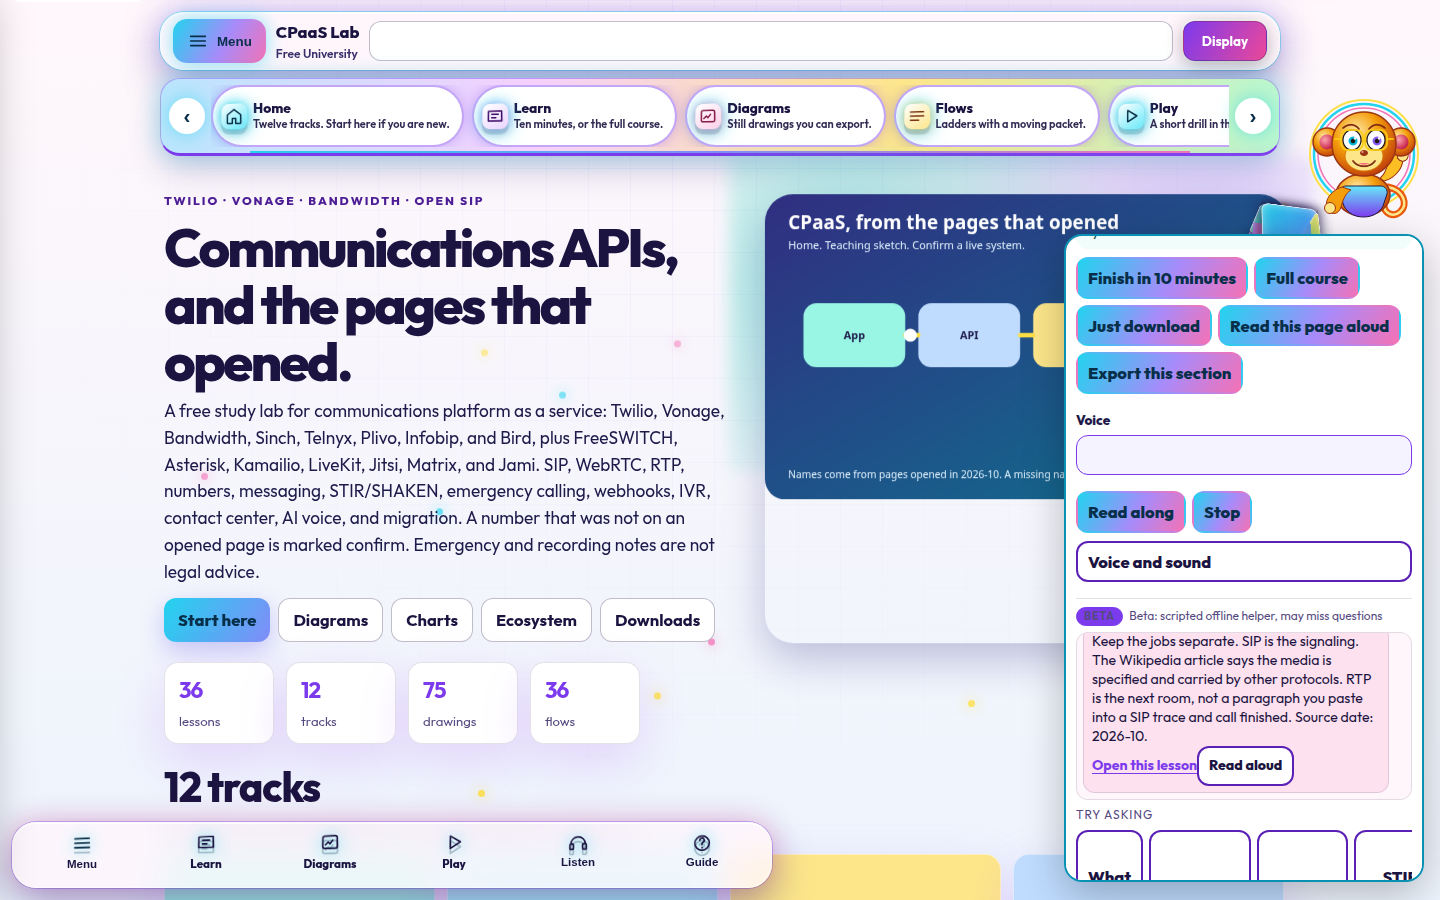
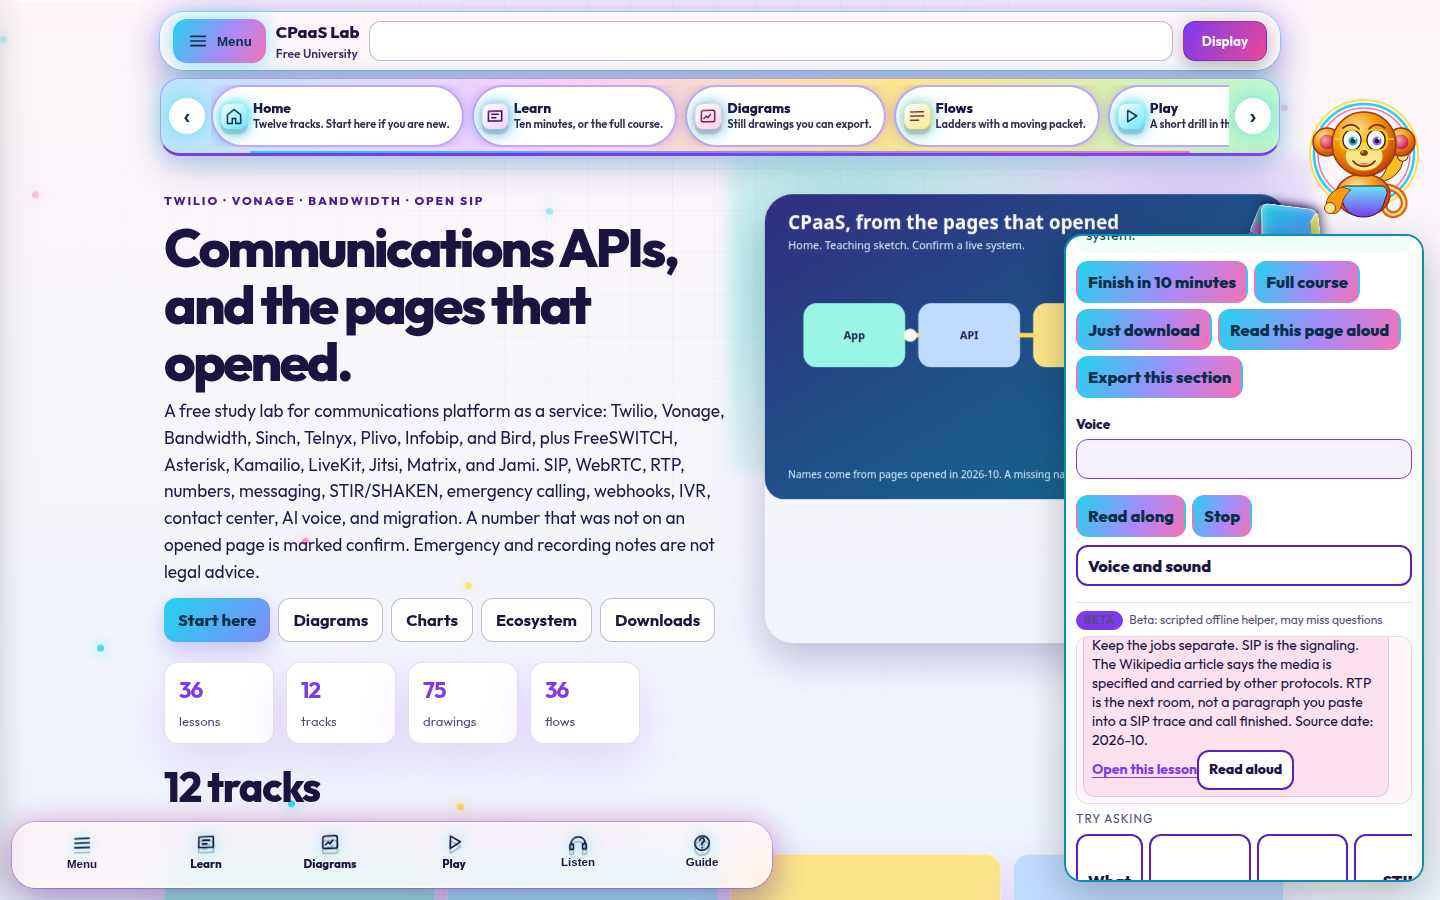
Let the phone chat field use the sheet width.
The input label was sitting in the form row, so the field shrank to a sliver. It is now visually hidden, and the field keeps at least 180px with Send still on screen.

Changed region(s): [[0.75, 0.5289, 0.9688, 0.9333], [0.75, 0.2489, 0.9688, 0.4978], [0.75, 0.9644, 0.7812, 0.9956]]

diff --git a/shared/pybot-chat/chat.css b/shared/pybot-chat/chat.css
@@ -45,10 +45,23 @@
 .py-msg-code { margin: 6px 0 0; padding: 6px; overflow: auto; border-radius: 8px; background: var(--code-bg, var(--bg)); font-size: 0.75rem; }
 .py-chat-try { margin: 0; font-size: 0.75rem; text-transform: uppercase; letter-spacing: 0.08em; color: var(--muted); }
 .py-chat-examples, .py-chat-chips { display: flex; gap: 6px; overflow-x: auto; }
-.py-chat-form { display: flex; gap: 6px; align-items: center; }
+.py-chat-form { display: flex; gap: 6px; align-items: center; width: 100%; box-sizing: border-box; }
+.py-chat { width: 100%; box-sizing: border-box; }
+.visually-hidden {
+  position: absolute;
+  width: 1px;
+  height: 1px;
+  padding: 0;
+  margin: -1px;
+  overflow: hidden;
+  clip: rect(0, 0, 0, 0);
+  white-space: nowrap;
+  border: 0;
+}
 .py-chat-form input {
-  flex: 1;
-  min-width: 0;
+  flex: 1 1 auto;
+  min-width: 180px;
+  width: 100%;
   min-height: 44px;
   padding: 6px 10px;
   border-radius: 10px;
@@ -69,7 +82,8 @@
   font-weight: 700;
   cursor: pointer;
 }
-.py-chat-form button[type="submit"] { background: var(--accent); color: var(--btn-ink, #042f2e); border-color: var(--accent); }
+.py-chat-form button[type="submit"] { background: var(--accent); color: var(--btn-ink, #042f2e); border-color: var(--accent); flex: 0 0 auto; }
+.py-chat-form .py-mic { flex: 0 0 auto; }
 .uc-lab .bot-panel { overflow: auto; max-height: min(72dvh, 680px); }
 .py-chat-form button:focus-visible, .py-mic:focus-visible, #py-chat-input:focus-visible, .py-read:focus-visible {
   outline: 2px solid var(--accent);

diff --git a/tests/lab.spec.js b/tests/lab.spec.js
@@ -42,7 +42,11 @@ test.describe("phone", () => {
     await expect(page.locator("main h1")).toBeVisible();
     await shot(page, "home-390.png");
     await page.locator("[data-open-guide]").click();
-    await expect(page.locator("#py-chat-input")).toBeVisible();
+    const input = page.locator("#py-chat-input");
+    const send = page.locator(".py-chat-form button[type=submit]");
+    await expect(input).toBeVisible();
+    await expect(send).toBeVisible();
+    expect((await input.boundingBox()).width).toBeGreaterThanOrEqual(180);
     await shot(page, "bot-390.png");
     await page.goto("/rooms/sip-jobs.html");
     await expect(page.locator("main h1")).toContainText(/SIP/);
@@ -95,6 +99,7 @@ test.describe("short phone", () => {
     expect(covered.send.inView).toBe(true);
     expect(covered.input.covered).toBe(false);
     expect(covered.send.covered).toBe(false);
+    expect((await input.boundingBox()).width).toBeGreaterThanOrEqual(180);
     await input.fill("what is SIP");
     await send.click();
     await expect(page.locator(".py-msg-bot").last()).toContainText(/SIP/);
